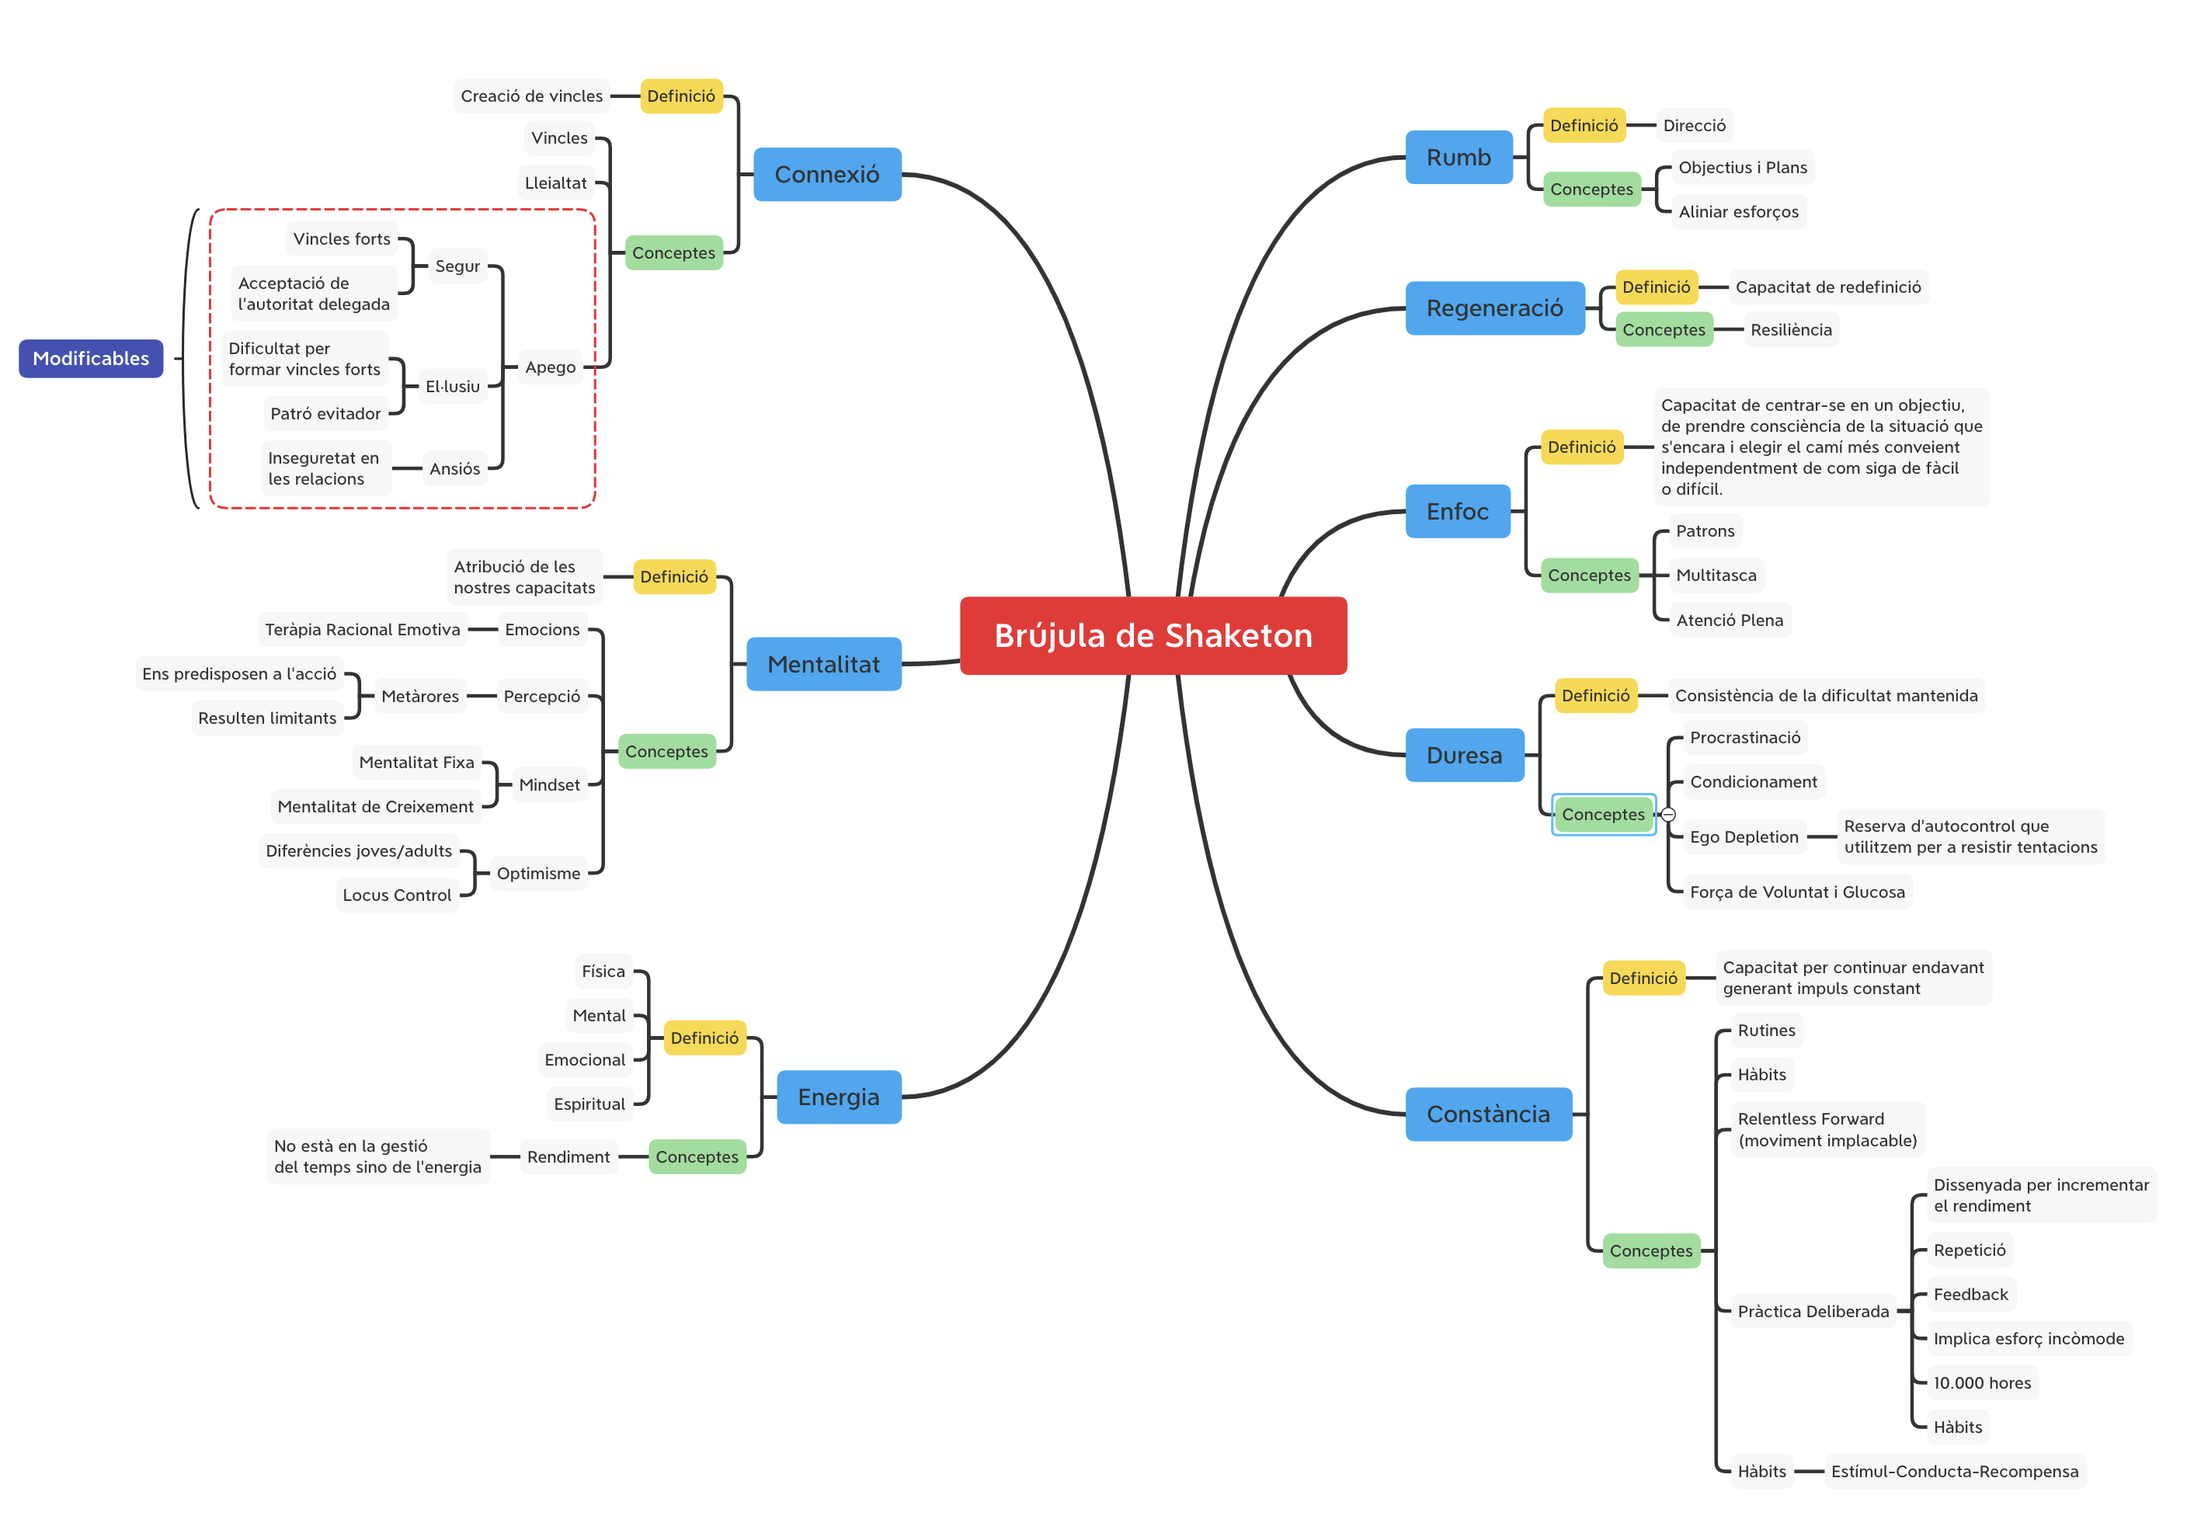
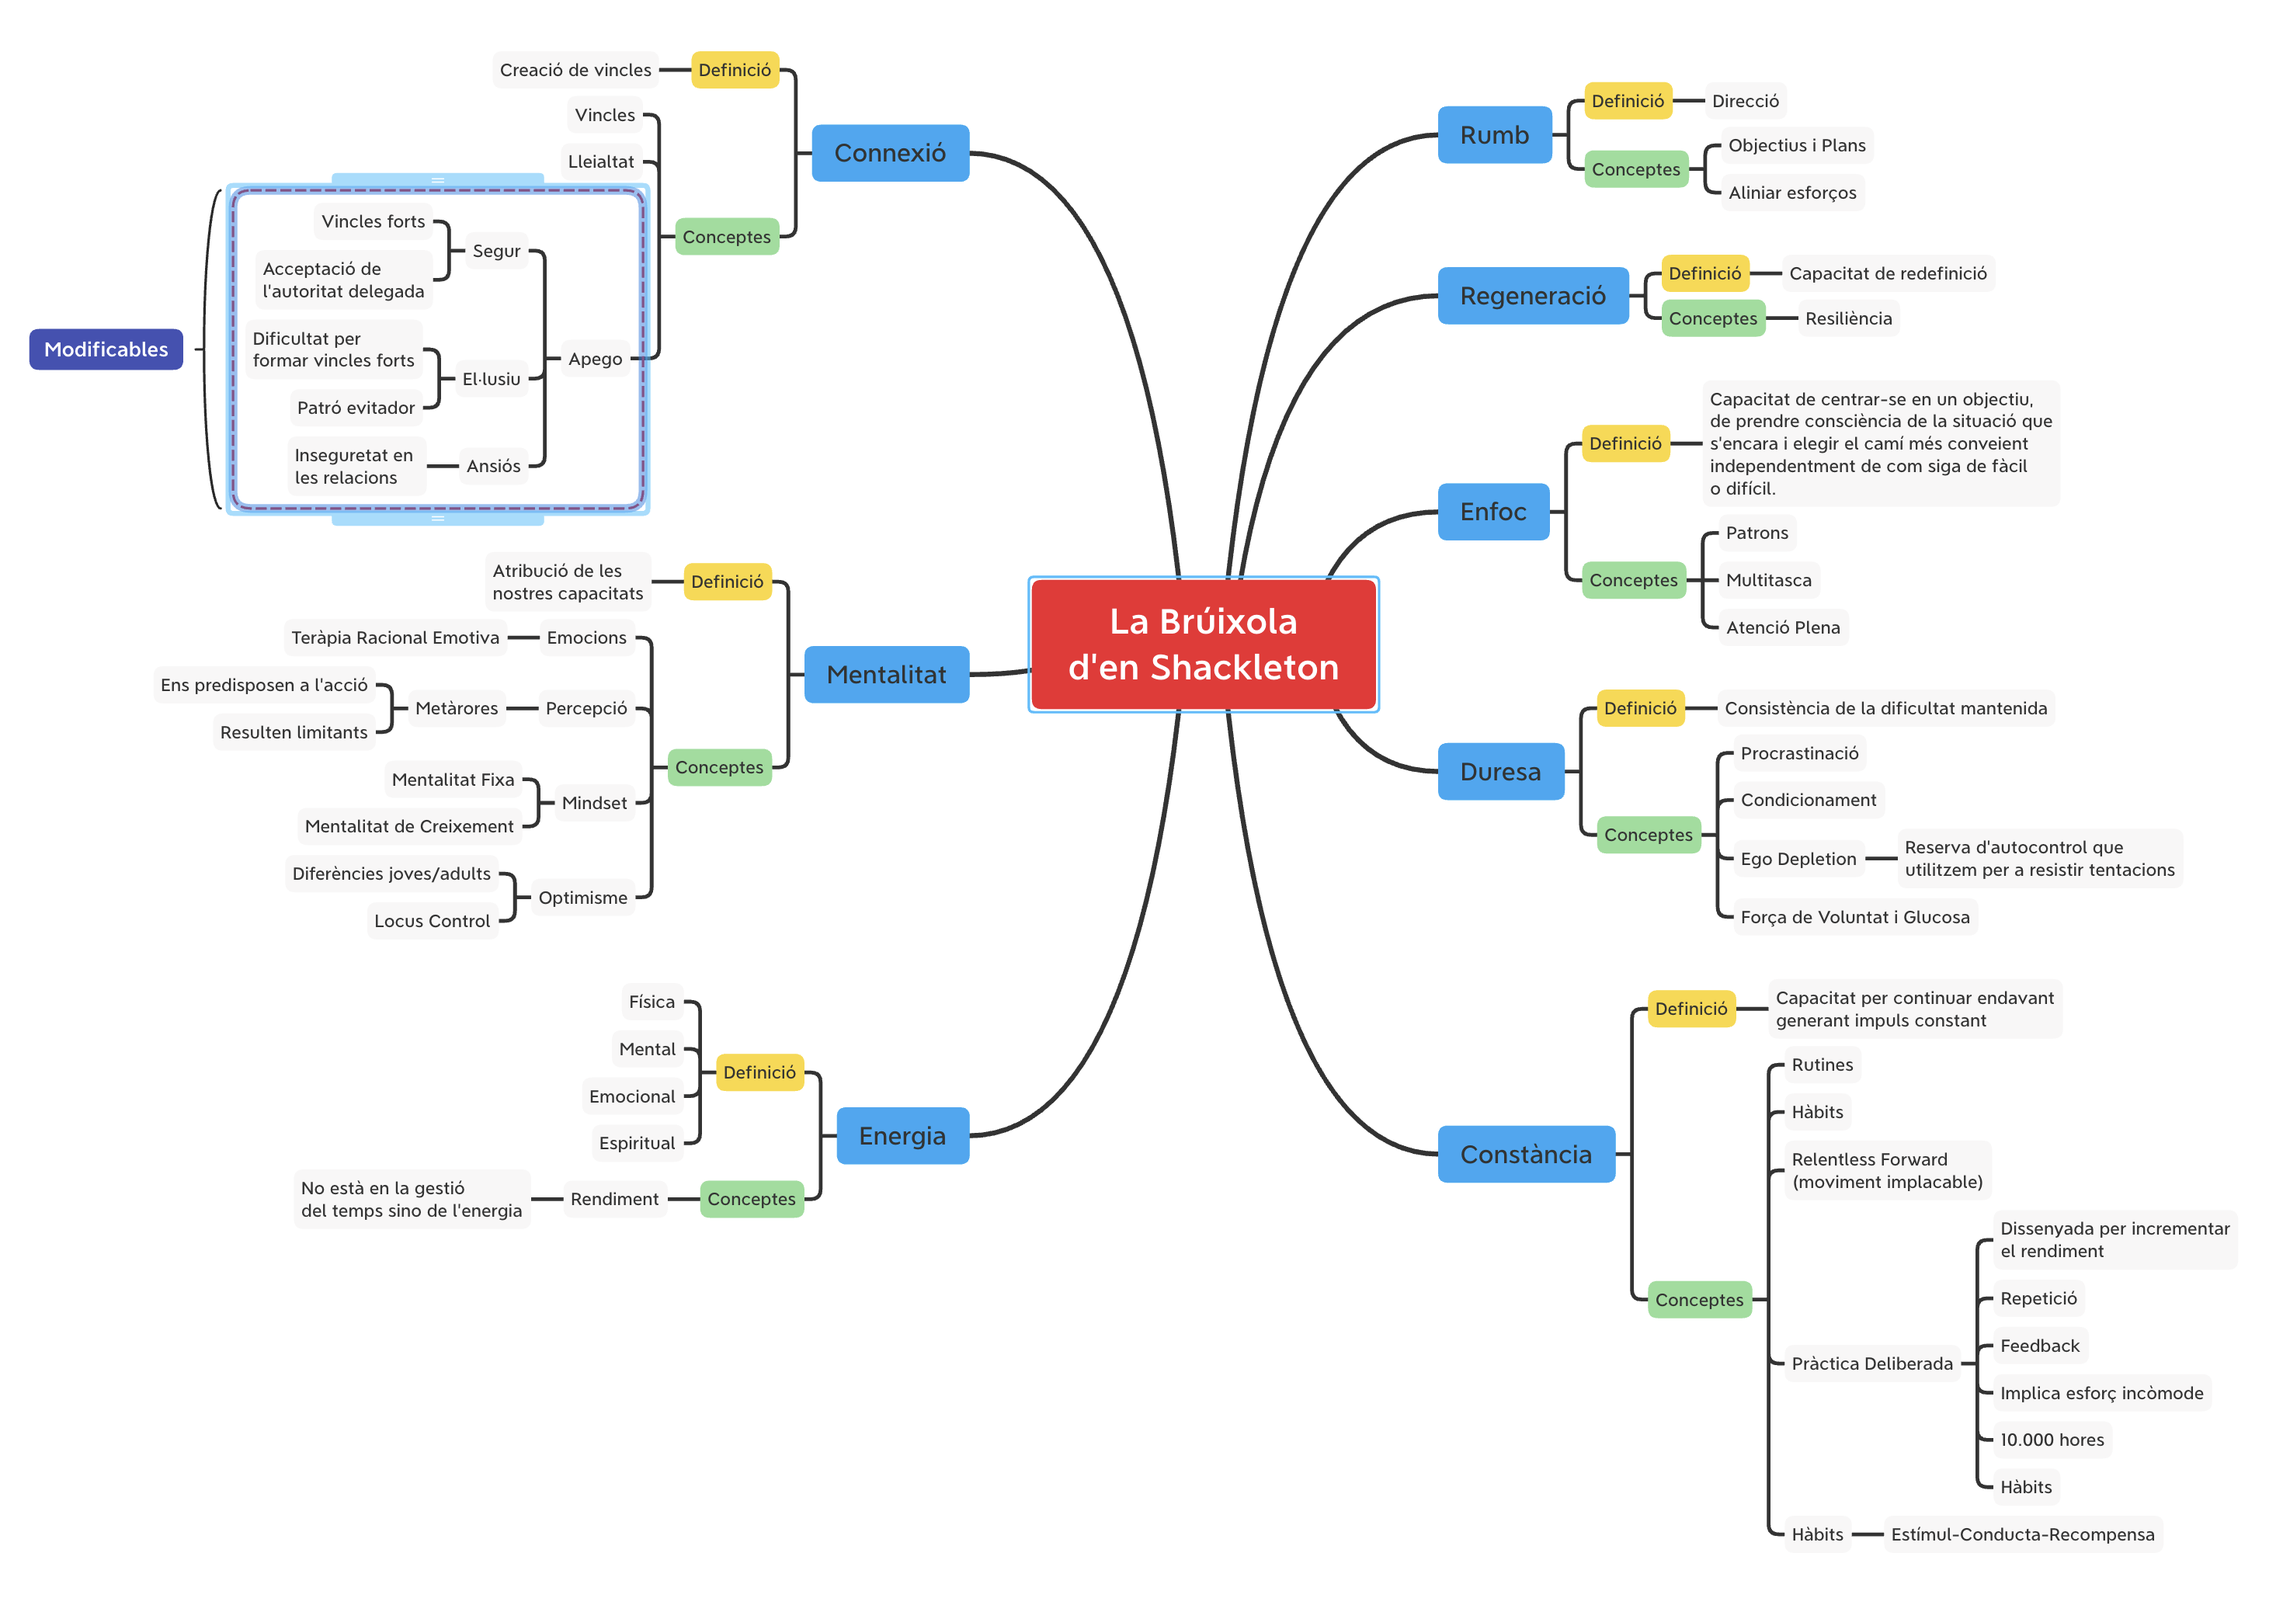
Imatge de Shackleton corregida

diff --git a/_productivity/2020-08-17-95-La-Bruixola-de-Shackleton.md b/_productivity/2020-08-17-95-La-Bruixola-de-Shackleton.md
@@ -14,7 +14,7 @@ coments:  # Comentaris
 
 ![](/img/shackleton.png)
 
-### Brújula de Shaketon
+### La Brúixola d'en Shacketon
 
 #### Rumb
 
